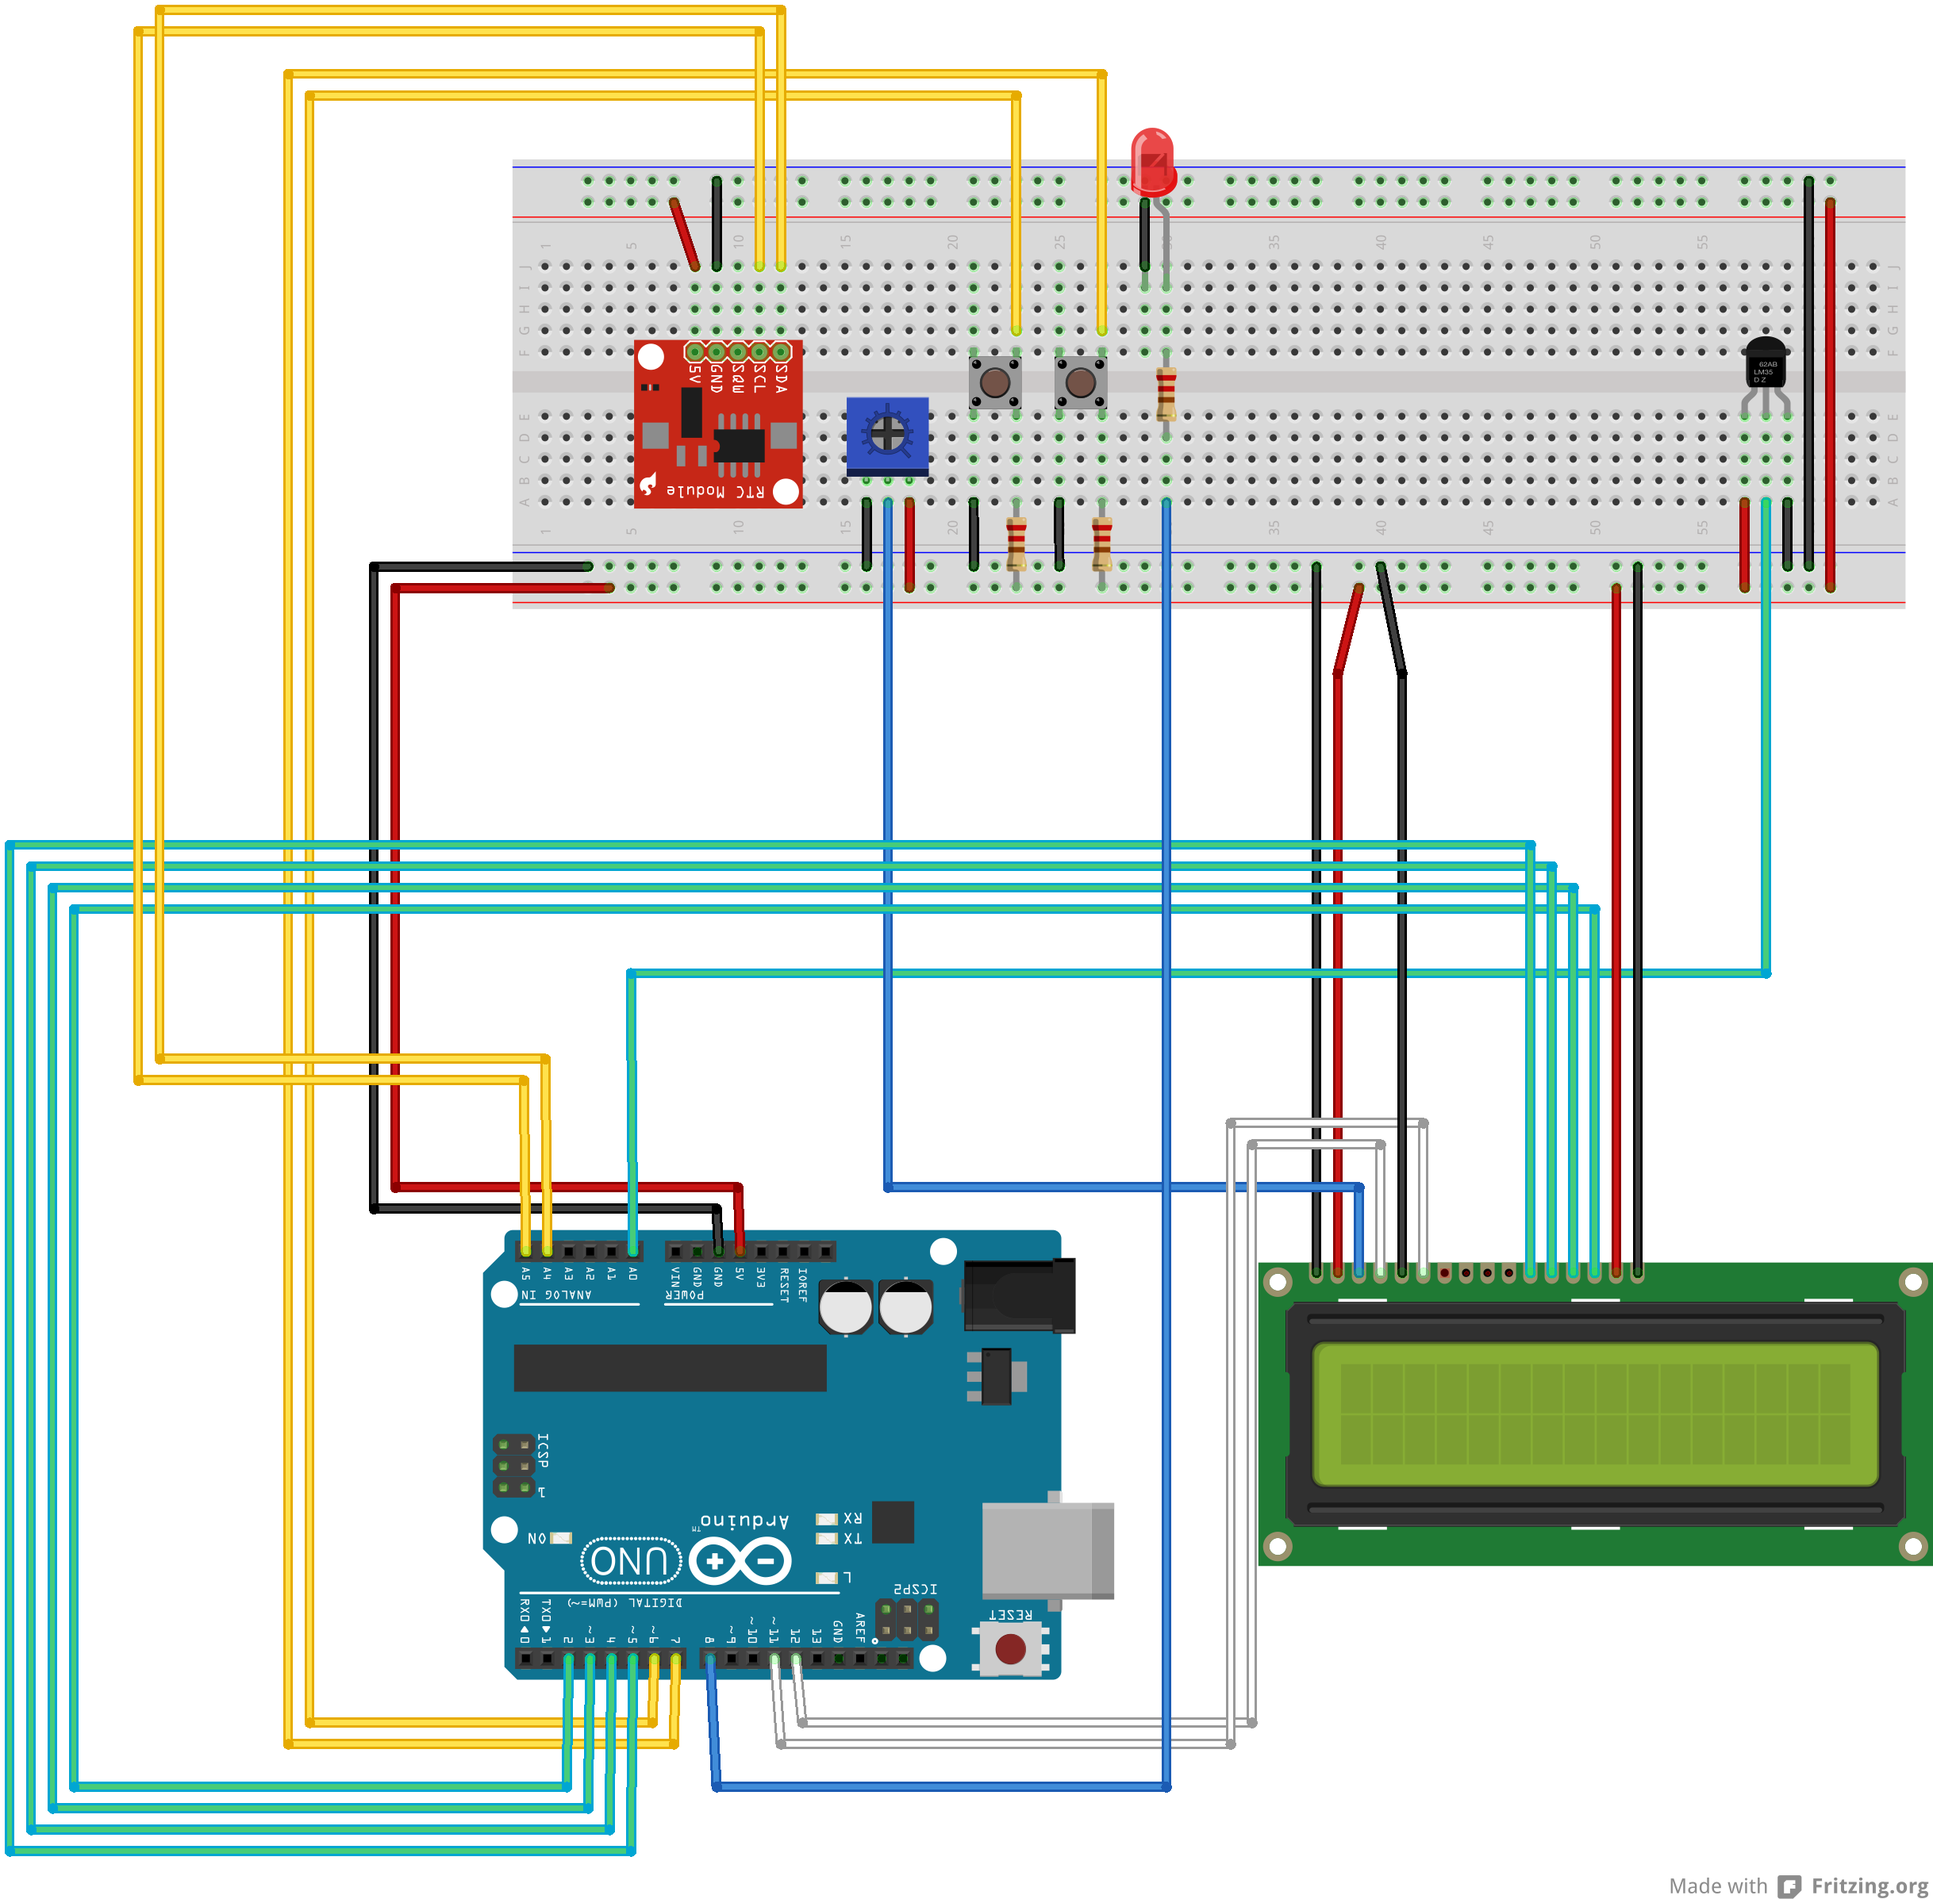
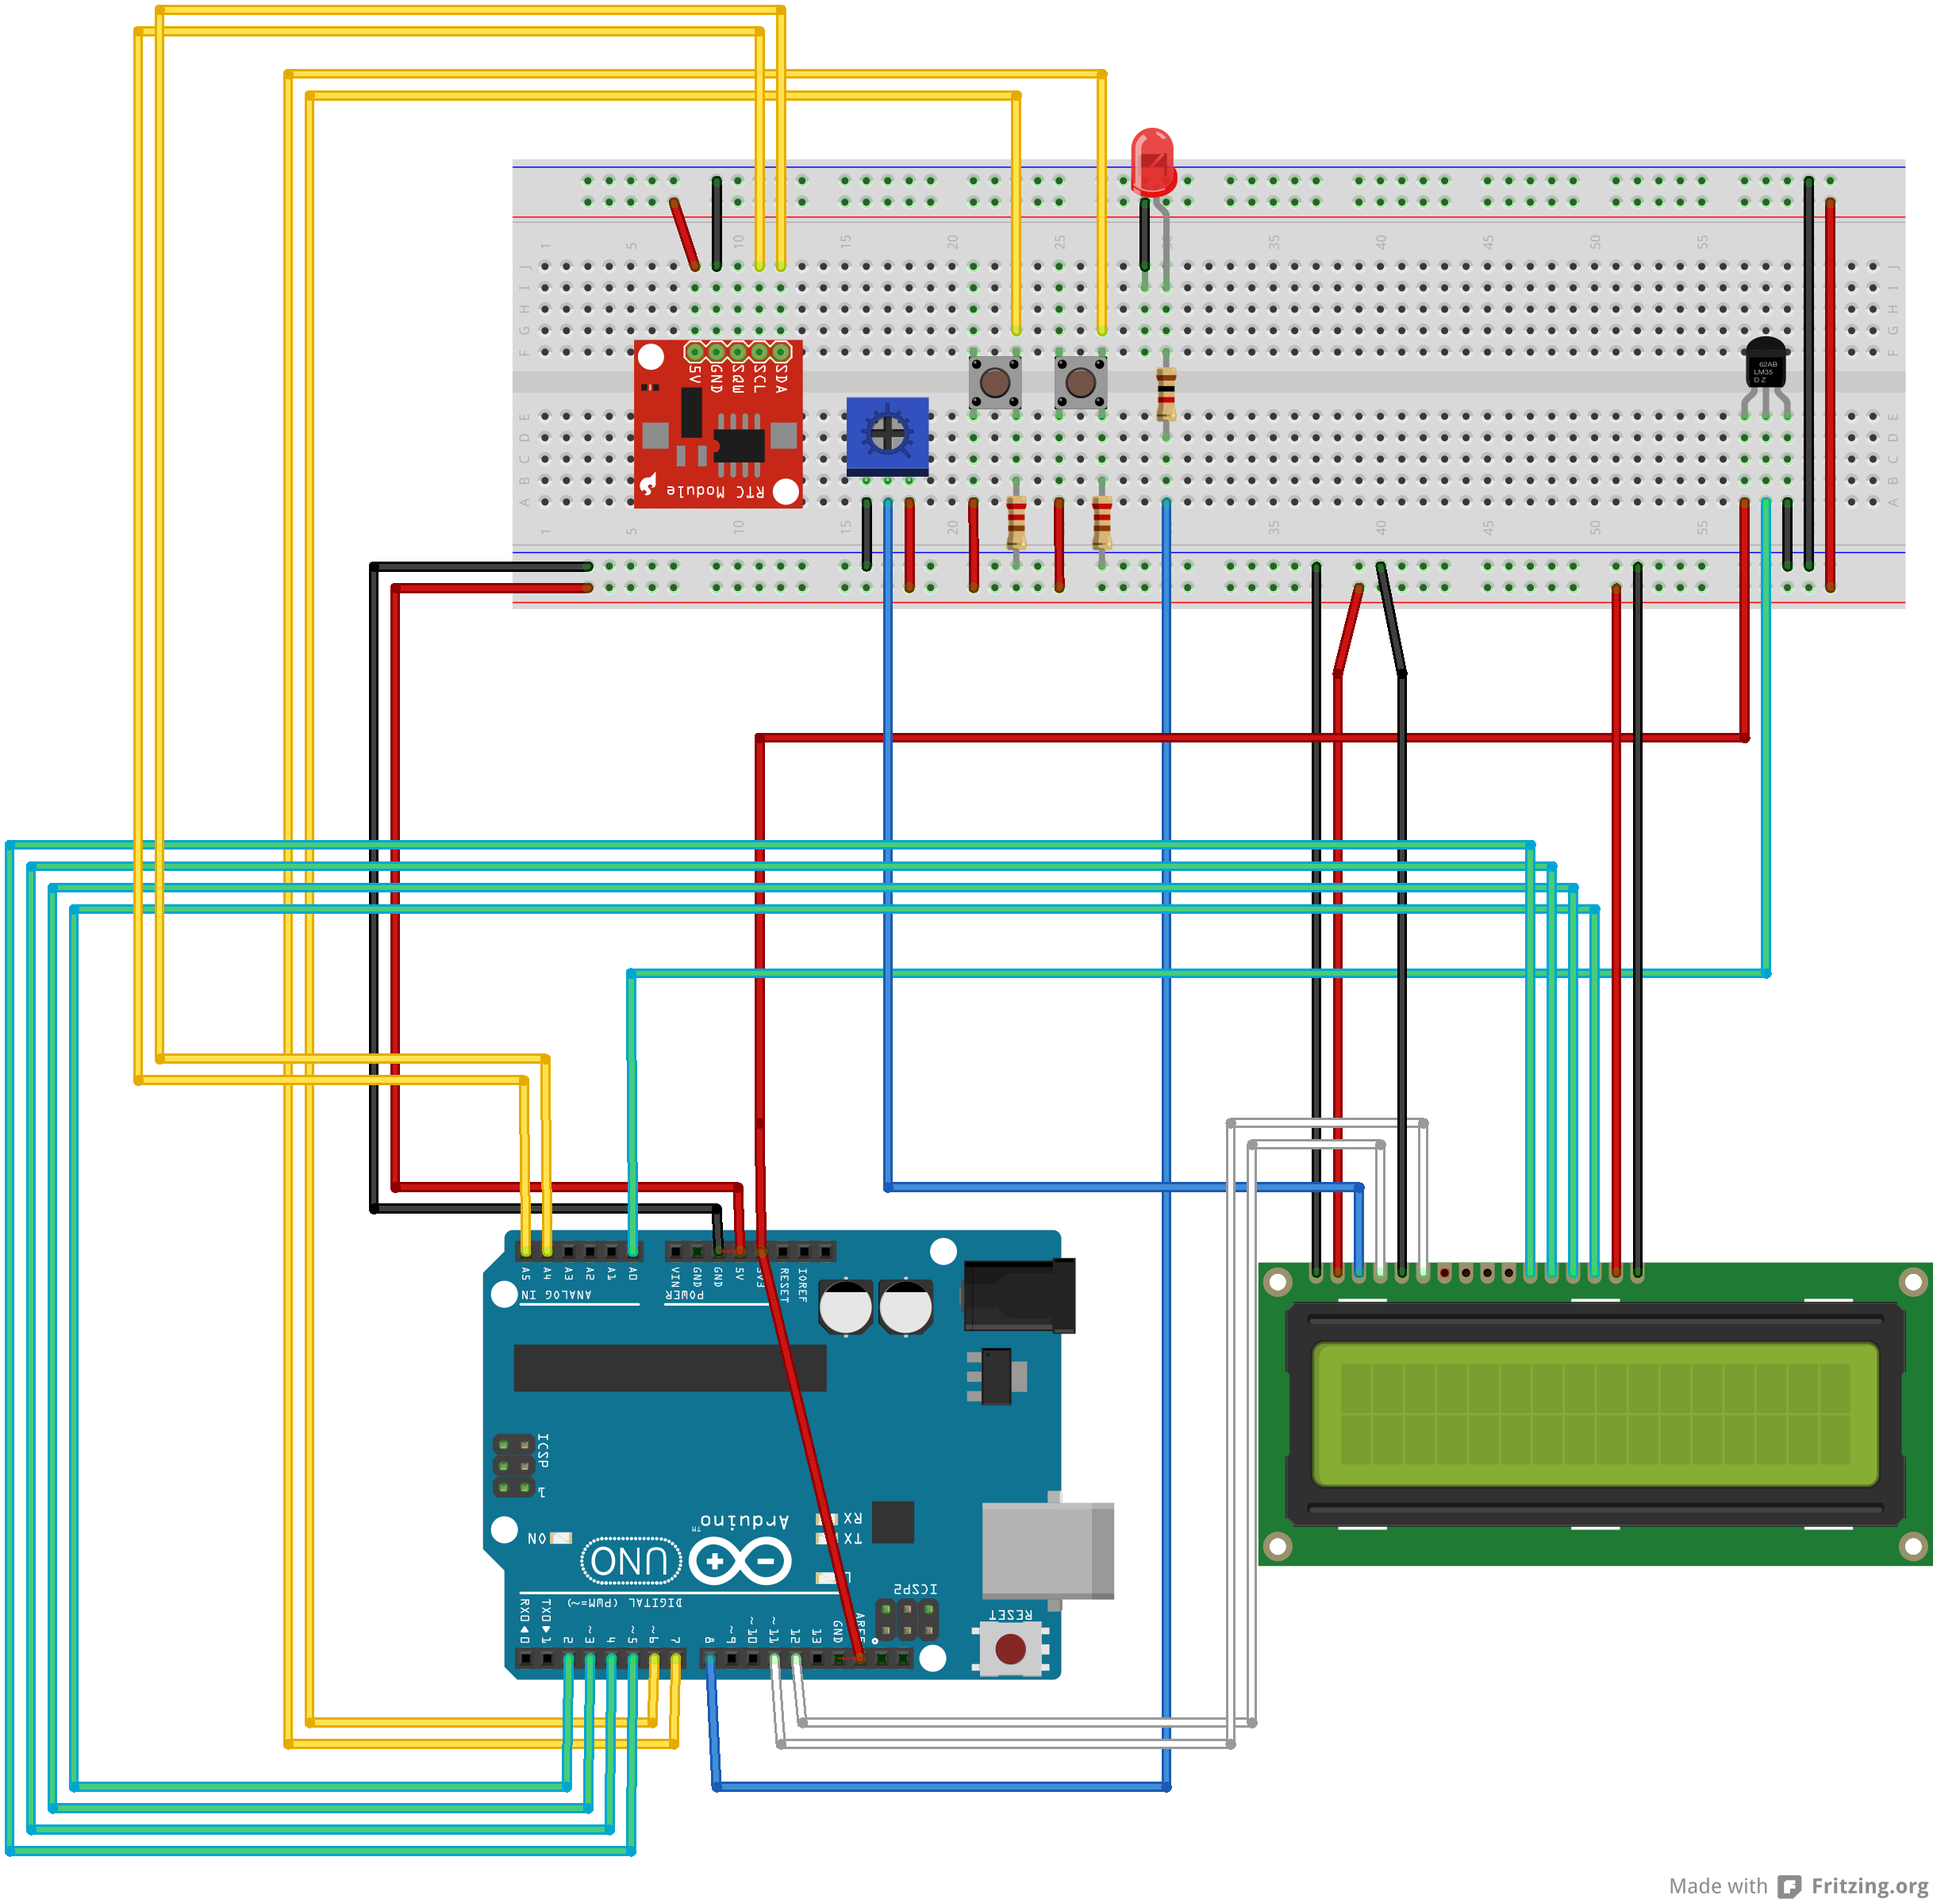
Temperature sensor now hooked up to 3.3V pin.

diff --git a/README.md b/README.md
@@ -14,3 +14,7 @@ This uses the [Arduino makefile](https://github.com/sudar/Arduino-Makefile.git).
 # Schematic
 
 <img src="FrankenStat.png">
+
+# Sensor Accuracy
+
+I noticed that the temerature would go up, when the LED was turned on by about 0.25 degrees. Measuring the voltage showed a small drop in voltage. This was solved by using the 3.3V power, and hooking the 3.3V power to the AREF pin. See the sensor guide on [Adafruit](http://learn.adafruit.com/tmp36-temperature-sensor/using-a-temp-sensor).
